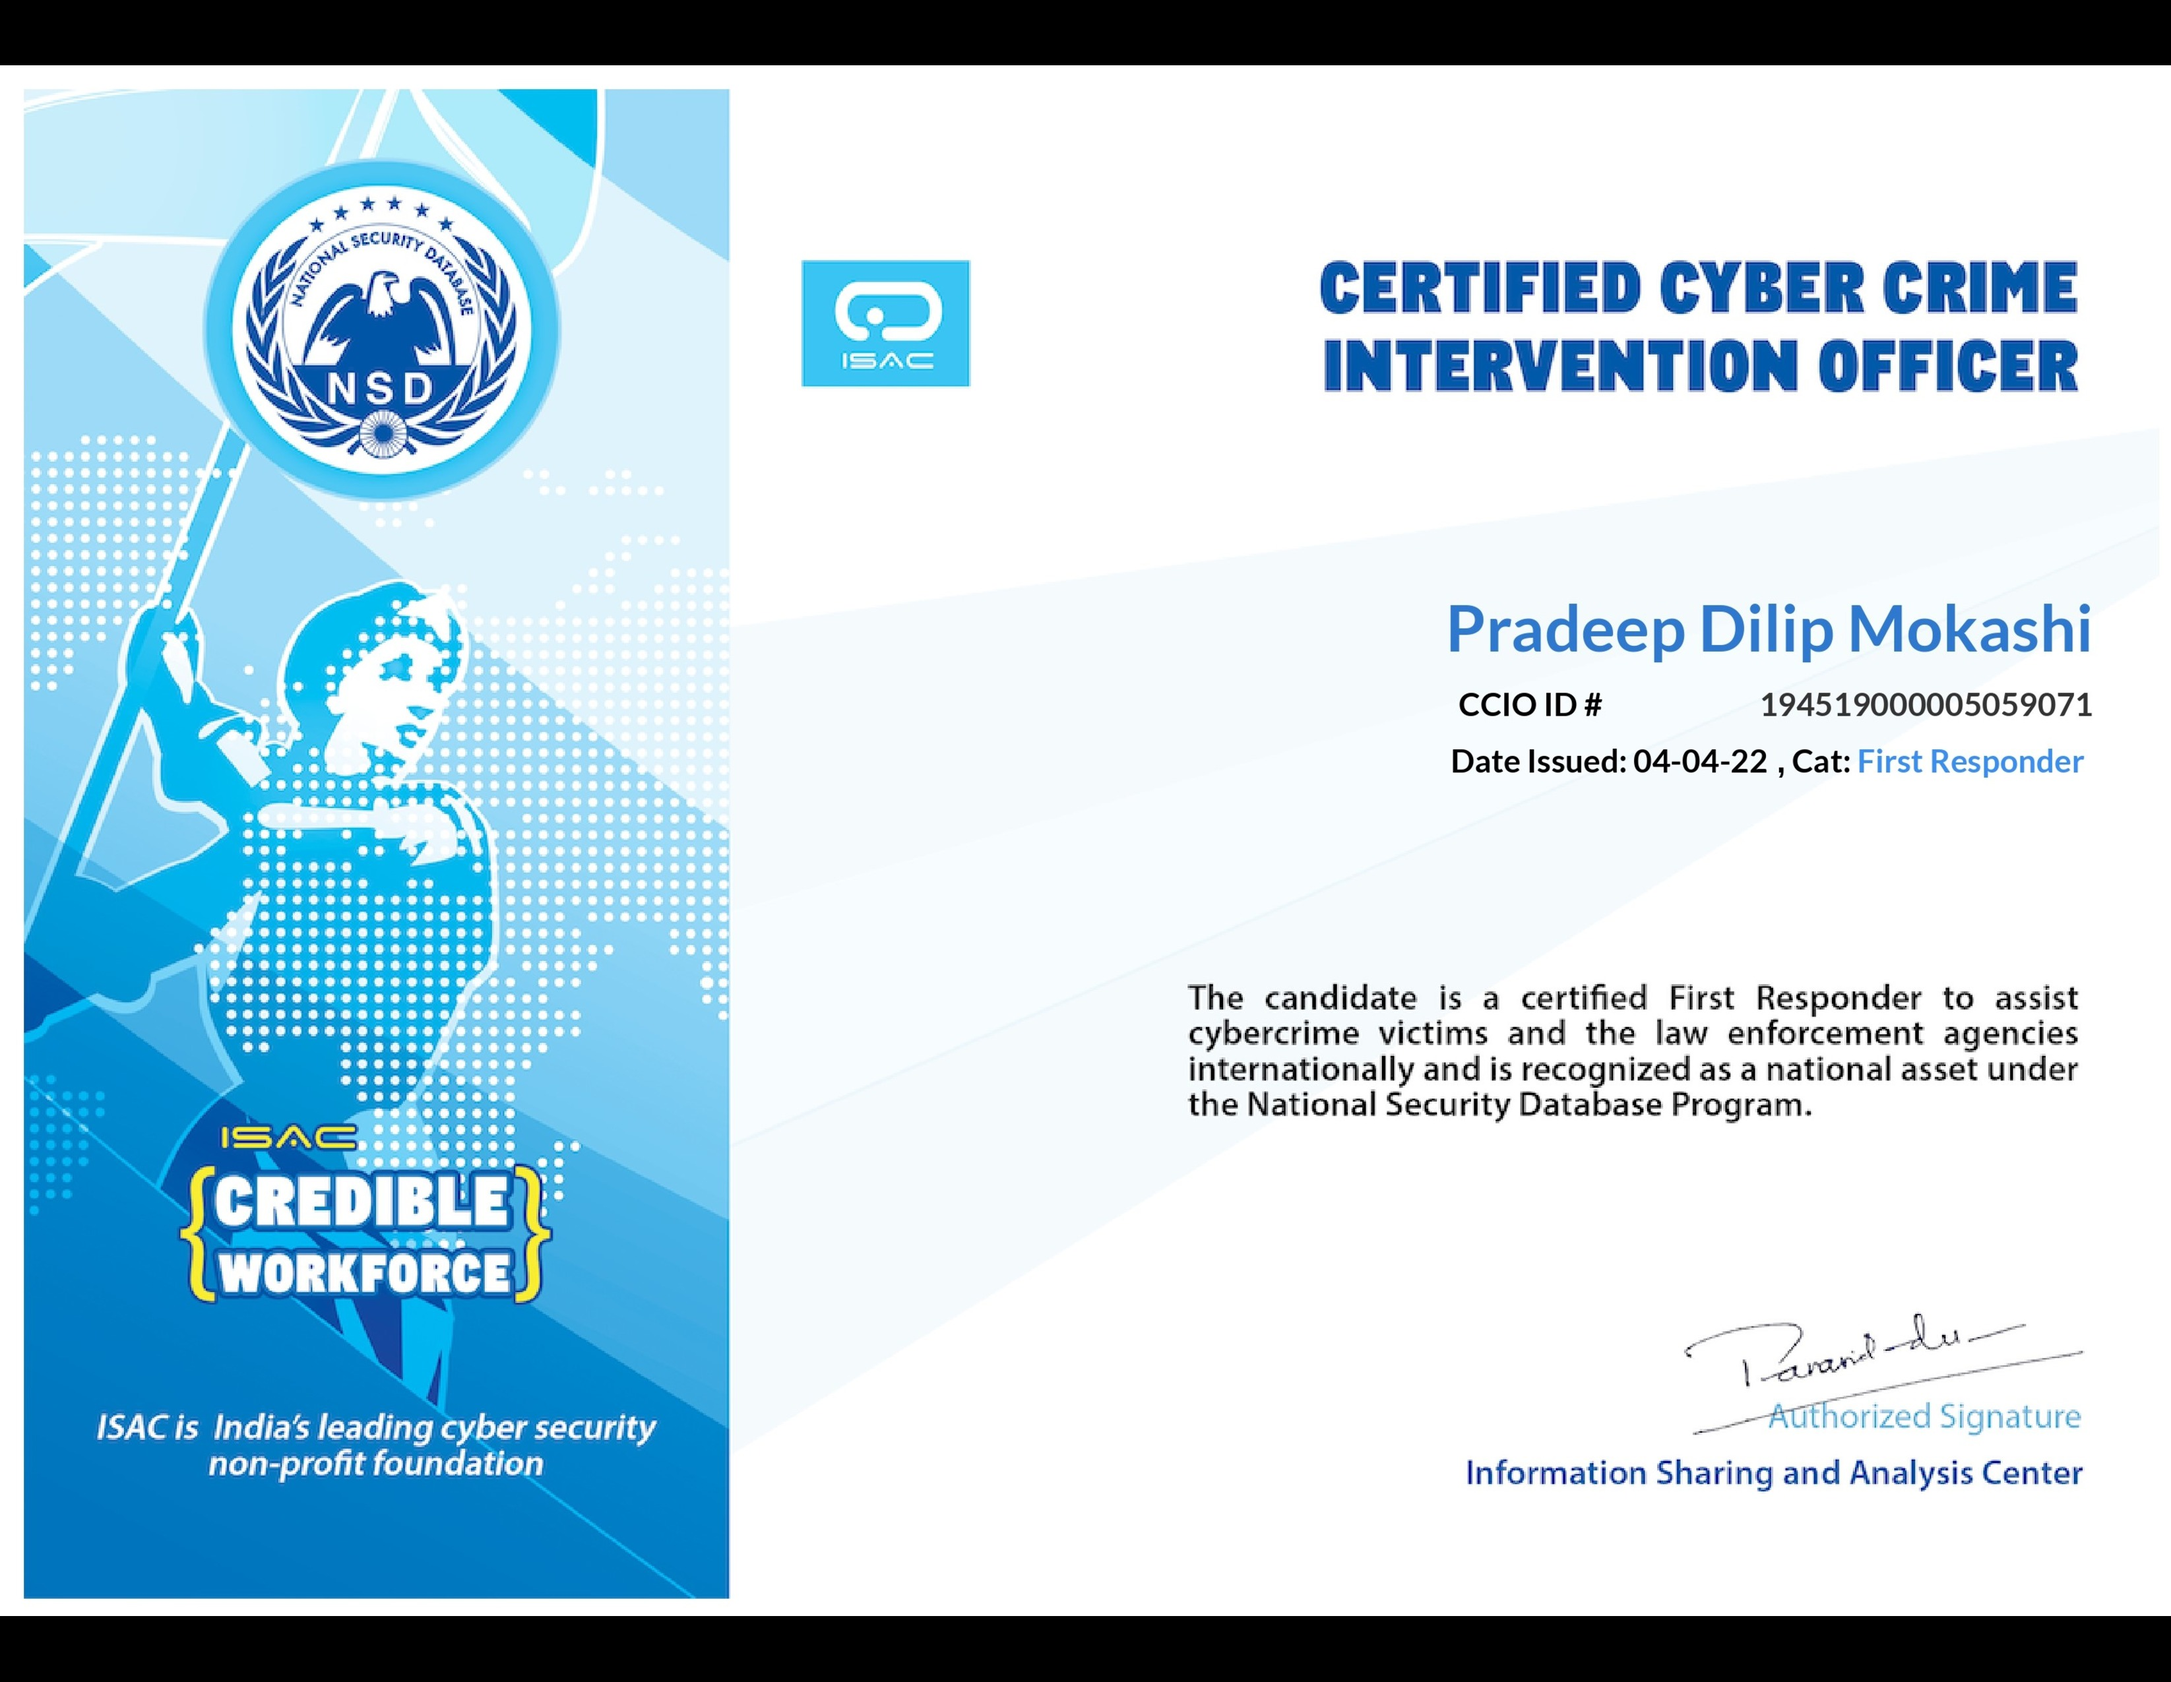
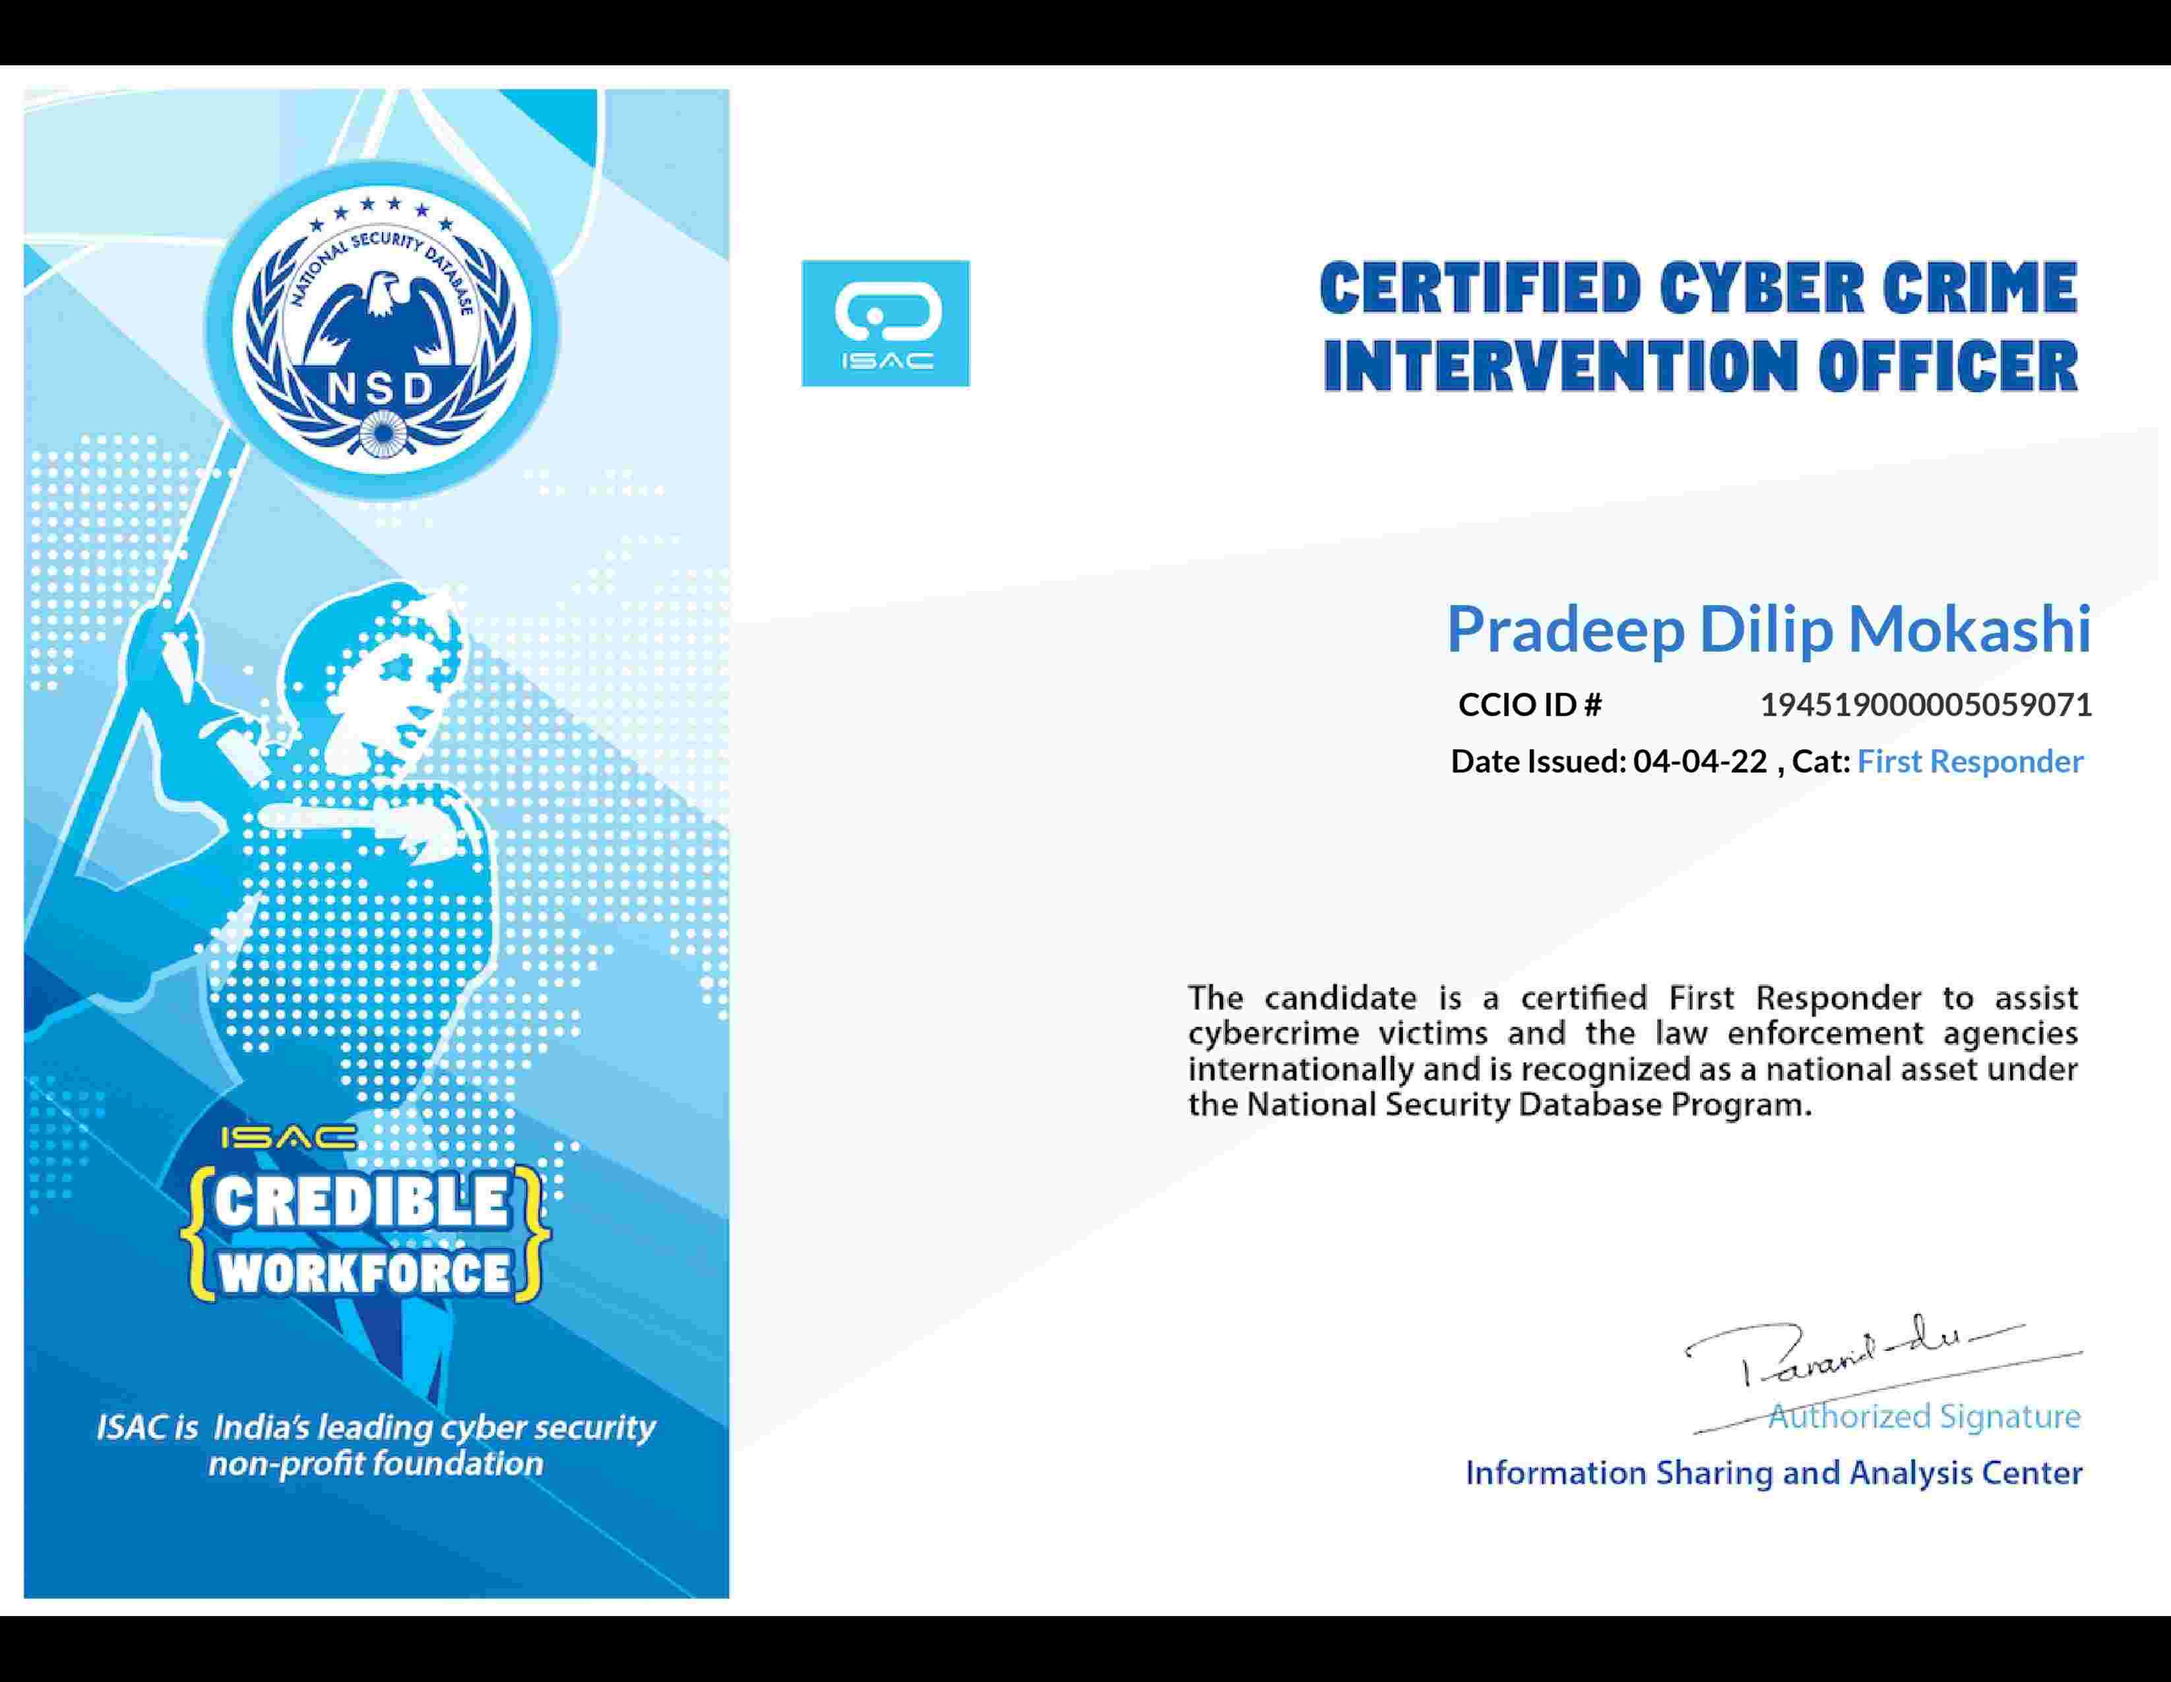
compressesd files added

diff --git a/src/Constants/CerticatesInfo.js b/src/Constants/CerticatesInfo.js
@@ -1,33 +1,31 @@
-// import AWSImg from '../Images/AWS_Academy_Cloud_Foundations.jpg'
+import AWSImg from '../Images/AWS_Academy_Cloud_Foundations.jpg'
 import AWSlogo from '../Images/aws-logo.svg'
-// import AWSMLimg from '../Images/AWS_Academy_Graduate___AWS_Academy_Machine_Learning_Foundations.jpg'
-// import IOcert from '../Images/IOcert.jpg'
-// import IOlogo from '../Images/IOlogo.png'
+import AWSMLimg from '../Images/AWS_Academy_Graduate___AWS_Academy_Machine_Learning_Foundations.jpg'
+import IOcert from '../Images/IOcert.jpg'
+import IOlogo from '../Images/IOlogo.png'
 import Udemylogo from '../Images/Udemy.svg'
-// import UdemyImg from '../Images/Image Processing Udemy_pages-to-jpg-0001.jpg'
-// import UdemyImg1 from '../Images/udemyImg.jpeg'
-// import Dyplogo from '../Images/d_y_patil_college_of_engineering__technology_kasaba_bawada_logo.jpg'
-// import DypImage from '../Images/quiz_competition_cert (1).jpeg'
+import UdemyImg from '../Images/Image Processing Udemy_pages-to-jpg-0001.jpg'
+import UdemyImg1 from '../Images/udemyImg.jpeg'
+import Dyplogo from '../Images/d_y_patil_college_of_engineering__technology_kasaba_bawada_logo.jpg'
+import DypImage from '../Images/quiz_competition_cert (1).jpeg'
 
 const CertificatesInfo = [
     {
         id: 1,
-        ava_icon:
-            'https://i.ibb.co/SsC9dTM/d-y-patil-college-of-engineering-technology-kasaba-bawada-logo.jpg',
+        ava_icon: Dyplogo,
         link: 'https://www.linkedin.com/in/pradeep-mokashi/details/certifications/',
         title: '2nd Prize in Quiz Competition',
         subheader:
             'D. Y. Patil College of Engineering and Techonology, Kolhpaur',
-        img: 'https://i.ibb.co/XWtTtdq/quiz-competition-cert-1.jpg',
+        img: DypImage,
     },
-
     {
         id: 2,
         ava_icon: AWSlogo,
         link: 'https://www.credly.com/go/veuWgVBf',
         title: 'AWS Academy Cloud Foundations',
         subheader: 'Amazon Web Services Training and Certification',
-        img: 'https://i.ibb.co/fdvxMMd/AWS-Academy-Cloud-Foundations.jpg',
+        img: AWSImg,
     },
     {
         id: 3,
@@ -35,7 +33,7 @@ const CertificatesInfo = [
         link: 'https://www.credly.com/badges/fb21fe16-a1a5-4fdd-a22f-ffb300a773df/public_url',
         title: 'AWS Academy Machine Learning',
         subheader: 'Amazon Web Services Training and Certification',
-        img: 'https://i.ibb.co/GcfRzLD/AWS-Academy-Graduate-AWS-Academy-Machine-Learning-Foundations.jpg',
+        img: AWSMLimg,
     },
     {
         id: 4,
@@ -43,7 +41,7 @@ const CertificatesInfo = [
         link: 'https://ude.my/UC-485e29eb-edfe-4ff0-96a1-7392b3a72c27',
         title: 'Image Processing and Computer Vision with Python & OpenCV',
         subheader: 'Udemy',
-        img: 'https://i.ibb.co/6NT5HM0/Image-Processing-Udemy-pages-to-jpg-0001.jpg',
+        img: UdemyImg,
     },
     {
         id: 5,
@@ -51,15 +49,16 @@ const CertificatesInfo = [
         link: 'https://ude.my/UC-2fd7c466-3b66-440a-a8dc-75dad97bec55',
         title: 'Complete JAVASCRIPT with HTML5,CSS3 from zero to Expert-2023',
         subheader: 'Udemy',
-        img: 'https://i.ibb.co/m44kHRs/udemyImg.jpg',
+        img: UdemyImg1,
     },
+
     {
         id: 6,
-        ava_icon: 'https://i.ibb.co/W06RKsW/IOlogo.png',
+        ava_icon: IOlogo,
         link: 'https://www.linkedin.com/in/pradeep-mokashi/details/certifications/',
         title: 'Certified Cyber Crime Intervention Officer',
         subheader: 'National Security Database',
-        img: 'https://i.ibb.co/vvfT5wZ/IOcert.jpg',
+        img: IOcert,
     },
 ]
 
